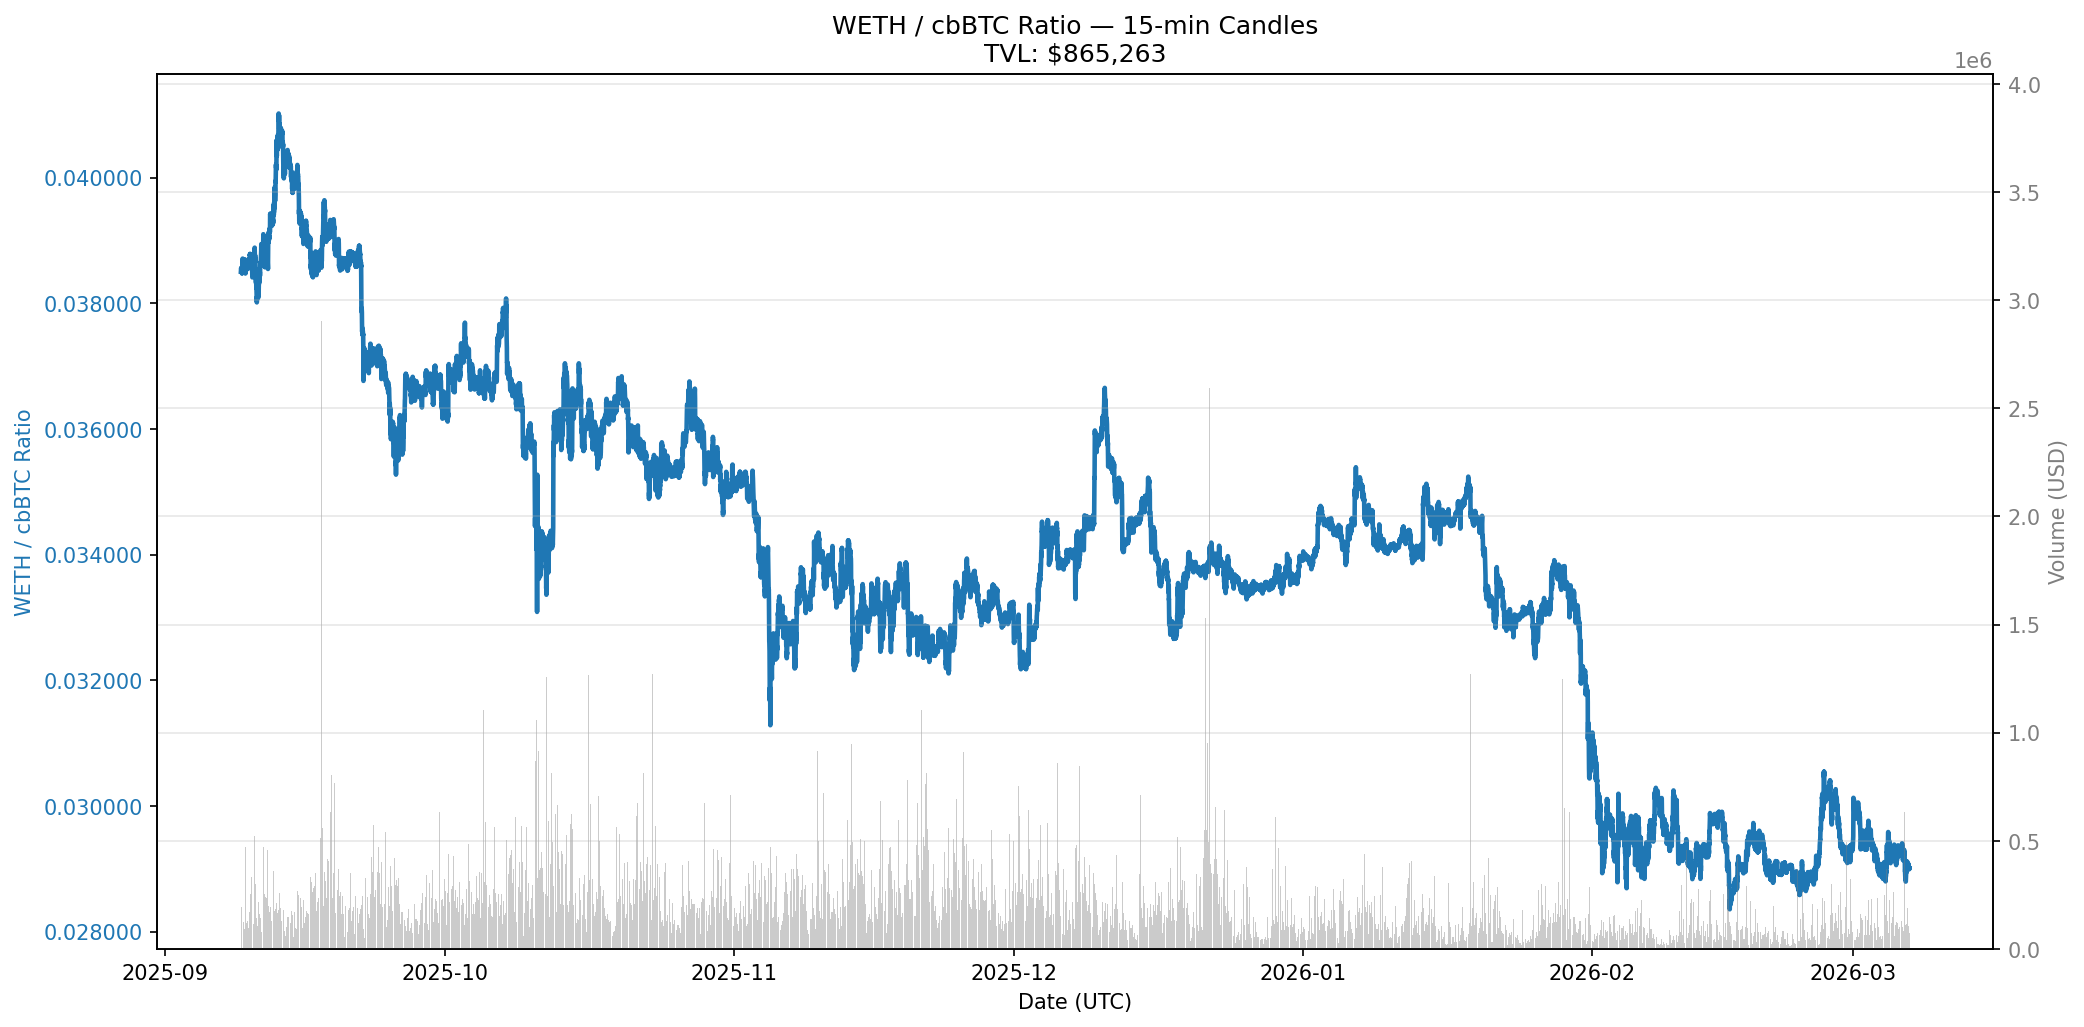
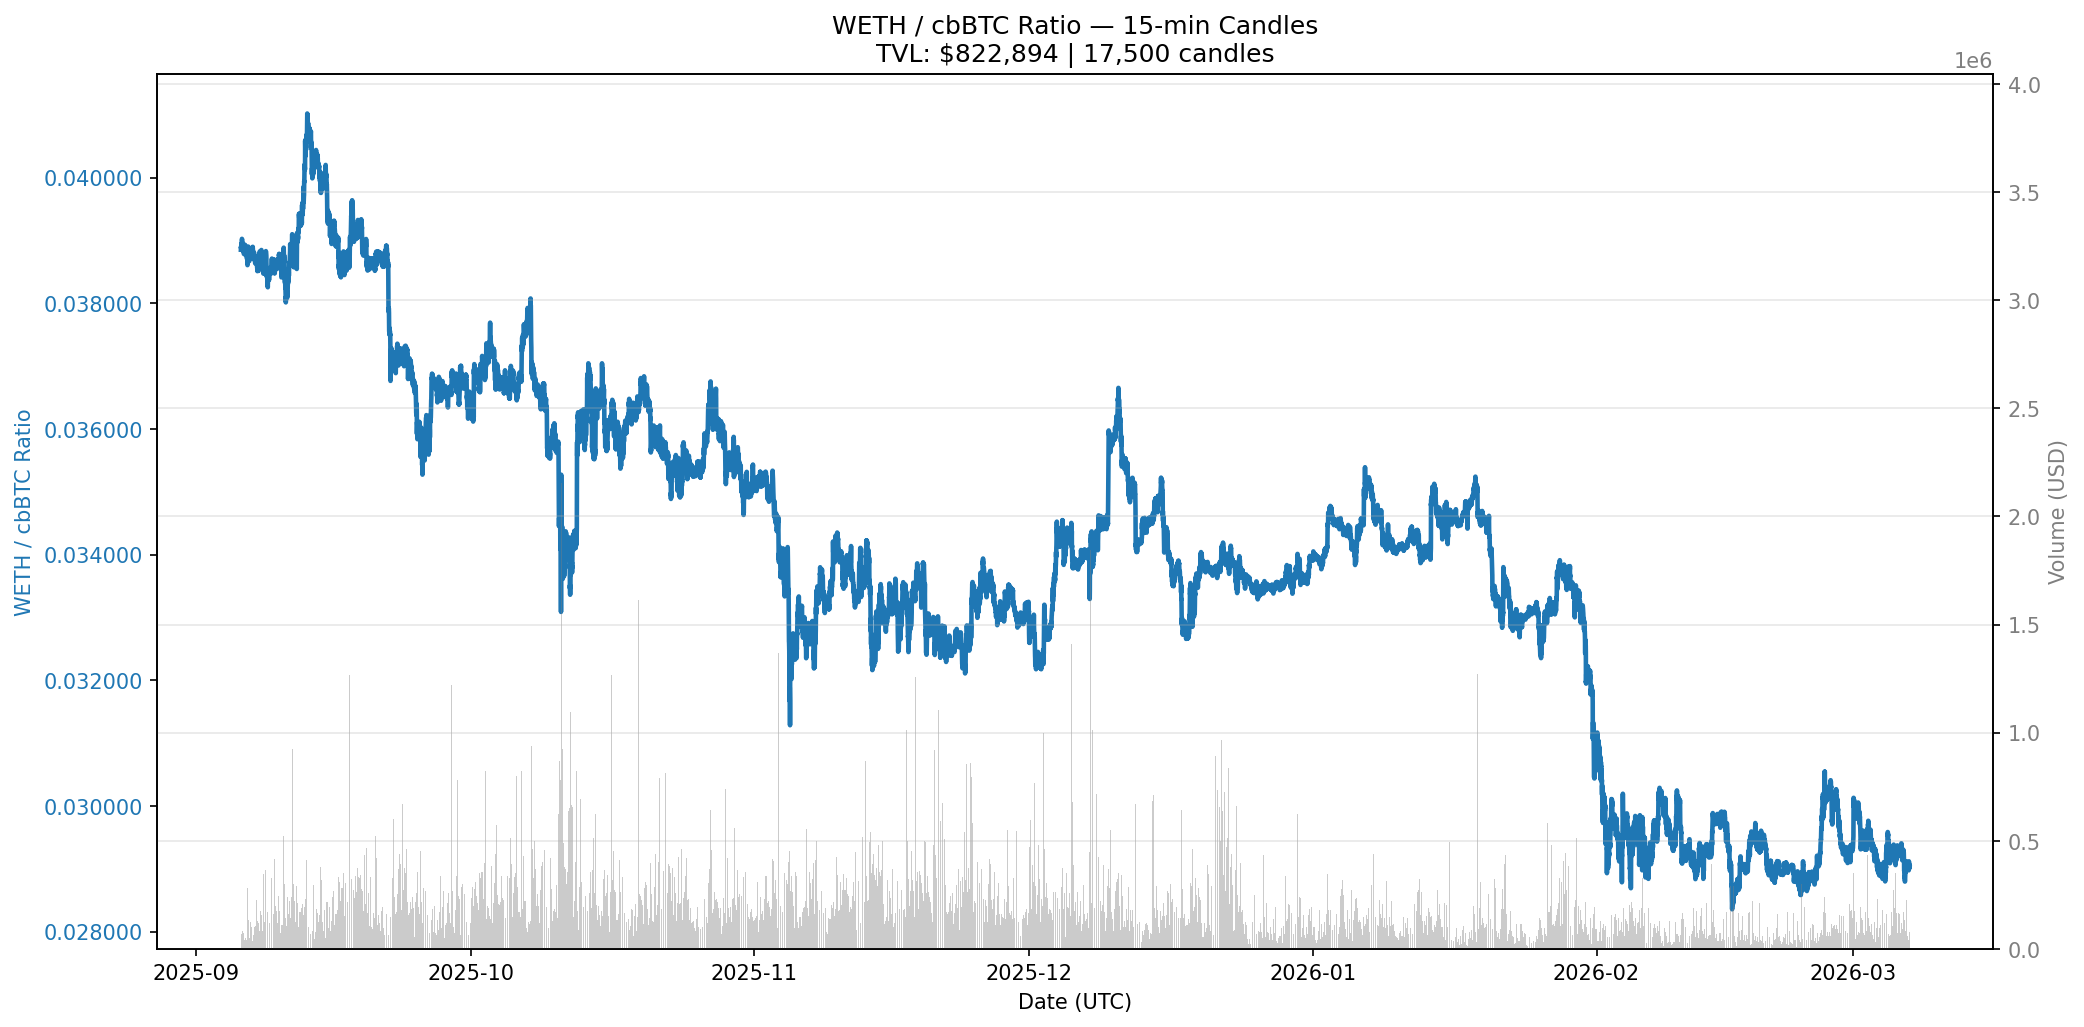
might be working

Changed region(s): [[0.0936, 0.1246, 0.9357, 0.9659], [0.4367, 0.0312, 0.6238, 0.0623], [0.0624, 0.9348, 0.1248, 0.9659]]

diff --git a/src/aero_pools_analysis_and_base_wallet/get_aero_pool_historic_prices.py b/src/aero_pools_analysis_and_base_wallet/get_aero_pool_historic_prices.py
@@ -4,10 +4,9 @@ import time
 import os
 from datetime import datetime, timezone, timedelta
 from typing import Optional, List
+import numpy as np
 
-# ────────────────────────────────────────────────
-# Matplotlib with graceful fallback (chart feature)
-# ────────────────────────────────────────────────
+# Matplotlib fallback
 try:
     import matplotlib.pyplot as plt
     MATPLOTLIB_AVAILABLE = True
@@ -19,12 +18,10 @@ except ImportError:
 
 class AerodromeSlipstreamFetcher:
     """
-    Fetcher for Aerodrome Slipstream pools (Geckoterminal API).
-    Features:
-      • Auto-detects symbols + TVL
-      • Smart resume (y/n prompt)
-      • Clean PNG chart showing BASE/QUOTE ratio (instead of base USD price) + TVL
-      • DPI=150 for small file sizes
+    FIXED VERSION - Now fully compatible with analyze_aero_pool_historic_prices.py
+    • Saves high_usd / low_usd / open_usd (required by analyzer)
+    • Full-depth USD fetching (no more artificial page limit)
+    • Proper datetime index name for CSV
     """
 
     def __init__(self, pool_address: str, network: str = "base"):
@@ -64,8 +61,7 @@ class AerodromeSlipstreamFetcher:
             self.tvl_usd = float(data.get("reserve_in_usd", 0) or 0)
 
             print(f"✅ Pool detected: {self.base_symbol} / {self.quote_symbol}")
-            print(f"   TVL: ${self.tvl_usd:,.0f}")
-            print(f"   (name: {data.get('name', 'N/A')})\n")
+            print(f"   TVL: ${self.tvl_usd:,.0f}\n")
 
         except Exception as e:
             print(f"⚠  Could not fetch pool metadata: {e}")
@@ -73,9 +69,14 @@ class AerodromeSlipstreamFetcher:
             self.quote_symbol = "QUOTE"
             self.tvl_usd = 0.0
 
-    def _fetch_batch(self, currency: str, before_ts: Optional[int] = None, aggregate: int = 15, limit: int = 500, retries: int = 5) -> List[list]:
+    def _fetch_batch(self, currency: str = "usd", token_param: Optional[str] = None,
+                     before_ts: Optional[int] = None, aggregate: int = 15,
+                     limit: int = 500, retries: int = 5) -> List[list]:
+        """Fetch one batch (enhanced rate-limit handling)"""
         for attempt in range(retries + 1):
             params = {"aggregate": aggregate, "limit": limit, "currency": currency}
+            if token_param:
+                params["token"] = token_param
             if before_ts is not None:
                 params["before_timestamp"] = before_ts
 
@@ -88,20 +89,20 @@ class AerodromeSlipstreamFetcher:
             except requests.exceptions.HTTPError as e:
                 if getattr(resp, "status_code", 0) == 429:
                     wait = (2 ** attempt) * 5 + 2
-                    print(f"Rate limit (429). Sleeping {wait}s (attempt {attempt+1}/{retries})")
+                    print(f"   Rate limit (429). Sleeping {wait}s...")
                     time.sleep(wait)
                     continue
-                print(f"HTTP {getattr(resp, 'status_code', '???')} ({currency}): {resp.text[:180]}")
+                print(f"HTTP {getattr(resp, 'status_code', '???')}: {str(e)[:150]}")
                 return []
-
             except Exception as e:
-                print(f"Request failed ({currency}): {str(e)}")
-                return []
-
+                print(f"Request failed ({currency}): {e}")
+                if attempt == retries:
+                    return []
+                time.sleep(2 ** attempt)
         return []
 
     def _create_price_chart(self, df: pd.DataFrame, aggregate: int):
-        """Clean PNG chart — NOW SHOWS the BASE/QUOTE ratio on the primary Y-axis"""
+        """Clean PNG chart (unchanged logic, just uses close_ratio)"""
         if df.empty or not MATPLOTLIB_AVAILABLE:
             return
 
@@ -110,13 +111,9 @@ class AerodromeSlipstreamFetcher:
         fig, ax1 = plt.subplots(figsize=(14, 7))
         color = 'tab:blue'
         ax1.set_xlabel('Date (UTC)')
-        
-        # === UPDATED: Plot ratio (already in CSV) instead of WETH USD price ===
         ax1.set_ylabel(f'{self.base_symbol} / {self.quote_symbol} Ratio', color=color)
         ax1.plot(df.index, df["close_ratio"], color=color, linewidth=2.2)
         ax1.tick_params(axis='y', labelcolor=color)
-        
-        # Clean formatting for typical crypto ratios (~0.02xxx)
         ax1.yaxis.set_major_formatter(plt.FuncFormatter(lambda x, p: f'{x:.6f}'))
 
         ax2 = ax1.twinx()
@@ -128,13 +125,13 @@ class AerodromeSlipstreamFetcher:
 
         plt.title(
             f"{self.base_symbol} / {self.quote_symbol} Ratio — {aggregate}-min Candles\n"
-            f"TVL: ${self.tvl_usd:,.0f}"
+            f"TVL: ${self.tvl_usd:,.0f} | {len(df):,} candles"
         )
         fig.tight_layout()
         plt.grid(True, alpha=0.3)
         plt.savefig(chart_filename, dpi=150, bbox_inches='tight')
         plt.close()
-        print(f"📊 Ratio chart saved → {chart_filename}  (small file size)")
+        print(f"📊 Ratio chart saved → {chart_filename}")
 
     def fetch_recent(
         self,
@@ -142,59 +139,123 @@ class AerodromeSlipstreamFetcher:
         aggregate: int = 15,
         save_csv: bool = True,
         filename: Optional[str] = None,
-        max_pages: int = 400
+        max_pages: int = 600
     ) -> pd.DataFrame:
 
         if self.base_symbol == "UNKNOWN":
             self._fetch_pool_info()
 
         if filename is None:
-            filename = f"aerodrome_{self.base_symbol}_{self.quote_symbol}_{aggregate}min_recent.csv".lower()
+            filename = f"aerodrome_{self.base_symbol.lower()}_{self.quote_symbol.lower()}_{aggregate}min_recent.csv"
 
-        # Smart resume logic (unchanged)
-        kst_tz = timezone(timedelta(hours=9))
-
+        # ====================== SMART RESUME ======================
         if os.path.exists(filename):
             mod_ts = os.path.getmtime(filename)
             mod_dt_utc = datetime.fromtimestamp(mod_ts, tz=timezone.utc)
-            mod_dt_kst = mod_dt_utc.astimezone(kst_tz)
+            mod_dt_kst = mod_dt_utc.astimezone(timezone(timedelta(hours=9)))
             file_size_mb = os.path.getsize(filename) / (1024 * 1024)
 
             print(f"\n📁 Existing data found: {filename}")
             print(f"   Last modified: {mod_dt_kst:%Y-%m-%d %H:%M KST}")
             print(f"   Size: {file_size_mb:.1f} MB")
-            print(f"   Current TVL (refreshed): ${self.tvl_usd:,.0f}")
+            print(f"   Current TVL: ${self.tvl_usd:,.0f}")
 
             choice = input("   Use existing data and skip download? (y/n) → ").strip().lower()
-            if choice in ("y", "yes"):
+            if choice in ("y", "yes", ""):
                 print("✅ Loading existing CSV...")
                 try:
                     df = pd.read_csv(filename, index_col="datetime", parse_dates=True)
-                    print(f"   Loaded {len(df):,} candles (range: {df.index[0]} → {df.index[-1]})")
-                    
+                    print(f"   Loaded {len(df):,} candles")
                     self._create_price_chart(df, aggregate)
                     return df
                 except Exception as e:
-                    print(f"⚠  Could not load CSV ({e}) — falling back to fresh download.")
+                    print(f"⚠  Could not load CSV ({e}) — falling back to download.")
 
-        # Fresh download logic (unchanged — full method omitted here for brevity; copy from your original if needed)
-        # ... [the entire fresh download block from your original script stays 100% identical] ...
+        # ====================== FRESH DOWNLOAD ======================
+        print(f"\n🔄 Starting fresh download ({aggregate}min candles, {days_back:.0f} days)...")
+        cutoff = datetime.now(timezone.utc) - timedelta(days=days_back)
 
-        # (The rest of fetch_recent — data processing, column creation, printing, saving — is unchanged)
-        # For completeness, the final part is shown below with a tiny cleanup:
+        # 1. Fetch BASE/QUOTE ratio
+        print("   Fetching BASE/QUOTE ratio...")
+        ratio_batches = []
+        before_ts: Optional[int] = None
+        page = 0
 
+        while page < max_pages:
+            page += 1
+            batch = self._fetch_batch(
+                currency="token",
+                token_param="base",
+                before_ts=before_ts,
+                aggregate=aggregate
+            )
+            if not batch:
+                break
+
+            temp = pd.DataFrame(batch, columns=["ts", "open_ratio", "high_ratio", "low_ratio", "close_ratio", "volume_quote"])
+            temp["datetime"] = pd.to_datetime(temp["ts"], unit="s", utc=True)
+            temp = temp.set_index("datetime").sort_index()
+            ratio_batches.append(temp[["open_ratio", "high_ratio", "low_ratio", "close_ratio", "volume_quote"]])
+            before_ts = int(temp.index[0].timestamp()) - 30
+
+            print(f"   Ratio Page {page:3d} | {len(temp):4d} candles | oldest: {temp.index[0].strftime('%Y-%m-%d')}")
+            if temp.index[0] < cutoff:
+                break
+            time.sleep(0.35)
+
+        # 2. Fetch FULL USD OHLC (this was the main bug)
+        print("   Fetching full USD OHLC + volume...")
+        usd_batches = []
+        before_ts = None
+        page = 0
+
+        while page < max_pages:
+            page += 1
+            batch = self._fetch_batch(currency="usd", before_ts=before_ts, aggregate=aggregate)
+            if not batch:
+                break
+
+            temp = pd.DataFrame(batch, columns=["ts", "open_usd", "high_usd", "low_usd", "close_usd", "volume_usd"])
+            temp["datetime"] = pd.to_datetime(temp["ts"], unit="s", utc=True)
+            temp = temp.set_index("datetime").sort_index()
+            usd_batches.append(temp[["open_usd", "high_usd", "low_usd", "close_usd", "volume_usd"]])
+
+            before_ts = int(temp.index[0].timestamp()) - 30
+
+            print(f"   USD Page {page:3d} | {len(temp):4d} candles | oldest: {temp.index[0].strftime('%Y-%m-%d')}")
+            if temp.index[0] < cutoff:
+                break
+            time.sleep(0.35)
+
+        # Combine
+        if not ratio_batches:
+            print("❌ No data returned by API.")
+            return pd.DataFrame()
+
+        df_ratio = pd.concat(ratio_batches).sort_index()
+        df_usd = pd.concat(usd_batches).sort_index() if usd_batches else pd.DataFrame()
+
+        df = df_ratio.join(df_usd, how="left")
+        df = df[~df.index.duplicated(keep="first")]
+
+        # Derive quote USD price
+        quote_col = f"close_{self.quote_symbol.lower()}_usd"
+        df[quote_col] = df["close_usd"] / df["close_ratio"].replace(0, np.nan)
+
+        # CRITICAL for analyzer
+        df.index.name = "datetime"
+
+        # ====================== FINAL OUTPUT ======================
         if not df.empty:
             latest_utc = df.index[-1]
-            latest_kst = latest_utc.astimezone(kst_tz)
+            latest_kst = latest_utc.astimezone(timezone(timedelta(hours=9)))
 
             print(f"\nRange:     {df.index[0]} → {latest_utc} UTC")
             print(f"           ({latest_kst.strftime('%Y-%m-%d %H:%M KST')})")
             print(f"Latest:    1 {self.base_symbol} ≈ ${df['close_usd'].iloc[-1]:,.2f}")
             print(f"           = {df['close_ratio'].iloc[-1]:.6f} {self.quote_symbol}")
-            print(f"           ({self.quote_symbol} ≈ ${df[quote_col].iloc[-1]:,.0f})")
             print(f"Candles:   {len(df):,}")
             print(f"TVL:       ${self.tvl_usd:,.0f}")
-            print(f"File size: ~{len(df) * 0.00035:.1f} MB")
 
         if save_csv and not df.empty:
             df.to_csv(filename)
@@ -208,9 +269,9 @@ class AerodromeSlipstreamFetcher:
 if __name__ == "__main__":
     DEFAULT_POOL = "0x22aee3699b6a0fed71490c103bd4e5f3309891d5"   # WETH–cbBTC
 
-    print("\n" + "="*85)
-    print("🚀 Aerodrome Slipstream Historic Price Fetcher + Ratio Chart + TVL + Smart Resume")
-    print("="*85)
+    print("\n" + "="*90)
+    print("🚀 Aerodrome Slipstream Historic Price Fetcher (FIXED + Analyzer Ready)")
+    print("="*90)
     print(f"Default pool: {DEFAULT_POOL} (WETH / cbBTC)\n")
 
     user_input = input("Enter Aerodrome pool contract address (0x...) or press Enter for default\n→ ").strip()
@@ -221,9 +282,11 @@ if __name__ == "__main__":
     df = fetcher.fetch_recent(
         days_back=179,
         aggregate=15,
-        save_csv=True
+        save_csv=True,
+        max_pages=600
     )
 
     if not df.empty:
         print("\nLast 5 candles:")
-        print(df[["close_ratio", f"close_{fetcher.quote_symbol.lower()}_usd", "volume_usd"]].tail(5))
+        quote_col = f"close_{fetcher.quote_symbol.lower()}_usd"
+        print(df[["close_ratio", "close_usd", quote_col, "high_usd", "low_usd", "volume_usd"]].tail(5))
